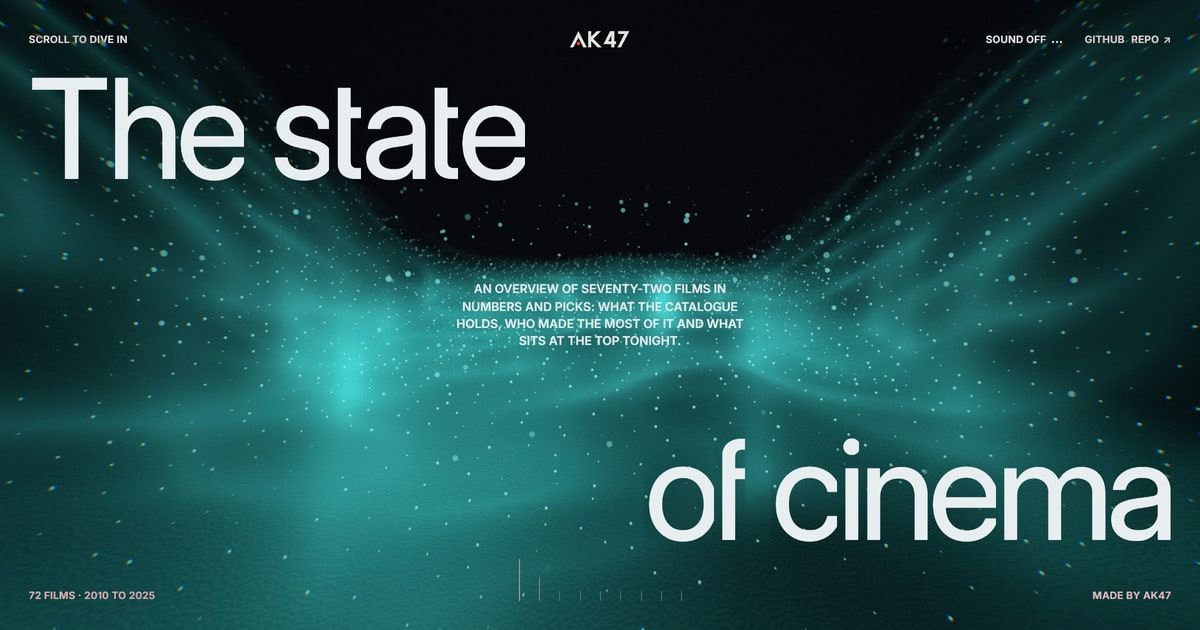
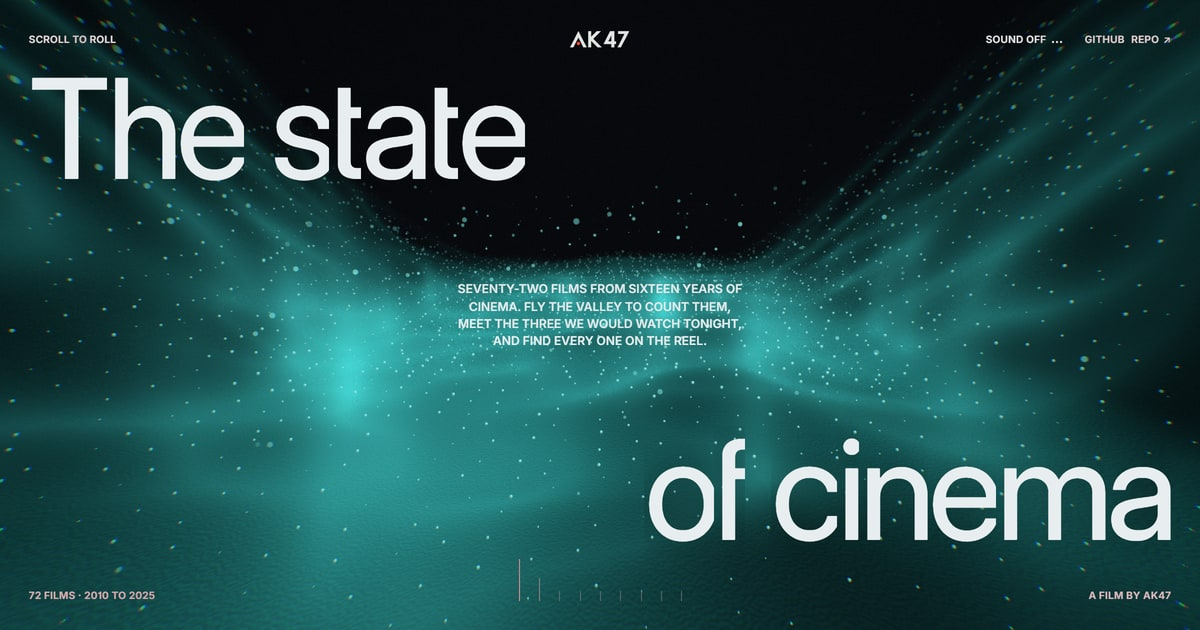
feat(cinema): send rings from pointer taps instead of raw click count
- Replaces click counting with per-tap NDC coordinates so a ring lands where the tap
  occurred, not just wherever the pointer last rested, fixing swipe-vs-tap ambiguity.
- Rewrites HUD copy and reel status line to use film-reel language and adds a reel
  counter in place of the generic progress message.

diff --git a/src/engine/Engine.ts b/src/engine/Engine.ts
@@ -47,8 +47,8 @@ export interface EngineInput {
   readonly pointerX: number;
   readonly pointerY: number;
   readonly pointerActive: boolean;
-  /** Presses since the last frame, each one a ring sent across the dunes. */
-  readonly clicks: number;
+  /** Taps and clicks since the last frame, in normalised device coordinates, each one a ring sent across the dunes. */
+  readonly taps: readonly { readonly x: number; readonly y: number }[];
 }
 
 export interface EngineFrame {
@@ -108,6 +108,7 @@ export class Engine {
   private readonly raycaster = new Raycaster();
   private readonly ground = new Plane(new Vector3(0, 1, 0), 0);
   private readonly hit = new Vector3();
+  private readonly tapHit = new Vector3();
   private readonly look = new Vector3();
   private readonly orbit = new Vector2();
   private readonly tint = new Vector3();
@@ -336,7 +337,7 @@ export class Engine {
     this.camera.updateMatrixWorld();
   }
 
-  /** The pointer raises a soft bump where it rests on the dunes, and a press sends a ring out. */
+  /** The pointer raises a soft bump where it rests on the dunes, and a tap sends a ring out from where it lands. */
   private touchGround(input: EngineInput, time: number, dt: number): void {
     let over = false;
     if (input.pointerActive && !this.reducedMotion) {
@@ -352,8 +353,11 @@ export class Engine {
     else h.z = this.hover;
     this.valley.mark(over && this.lastHit ? [this.lastHit.x, this.lastHit.z, this.hit.x, this.hit.z] : null);
     this.lastHit = over ? (this.lastHit ?? new Vector3()).copy(this.hit) : null;
-    for (let i = 0; i < input.clicks && over; i++) {
-      this.valley.uniforms.uRings.value[this.nextRing]!.set(this.hit.x, this.hit.z, time);
+    if (this.reducedMotion) return;
+    for (const tap of input.taps) {
+      this.raycaster.setFromCamera(new Vector2(tap.x, tap.y), this.camera);
+      if (!this.raycaster.ray.intersectPlane(this.ground, this.tapHit)) continue;
+      this.valley.uniforms.uRings.value[this.nextRing]!.set(this.tapHit.x, this.tapHit.z, time);
       this.nextRing = (this.nextRing + 1) % RING_SLOTS;
     }
   }

diff --git a/src/components/cinema/Hud.tsx b/src/components/cinema/Hud.tsx
@@ -42,8 +42,8 @@ function Copy({ station, topPick, onPlay }: { station: Station; topPick: Film | 
             <Letters text="The state" />
           </h1>
           <p className={styles.strap}>
-            An overview of seventy-two films in numbers and picks: what the catalogue holds, who made the most of it and
-            what sits at the top tonight.
+            Seventy-two films from sixteen years of cinema. Fly the valley to count them, meet the three we would watch
+            tonight, and find every one on the reel.
           </p>
           <p className={`${styles.titleLine} ${styles.titleEnd}`} aria-hidden="true">
             <Letters text="of cinema" delay={160} />
@@ -84,7 +84,7 @@ function Copy({ station, topPick, onPlay }: { station: Station; topPick: Film | 
       return (
         <div className={styles.outro} key="outro">
           <h2 className={styles.outroLine}>
-            <Letters text="Now start watching" />
+            <Letters text="Pick tonight's film" />
           </h2>
           {topPick && (
             <button type="button" className={styles.cta} onClick={() => onPlay(topPick)}>
@@ -98,8 +98,9 @@ function Copy({ station, topPick, onPlay }: { station: Station; topPick: Film | 
   }
 }
 
+/** The status line reads like a projection booth: waiting to roll, rolling, then the last reel. */
 const statusFor = (index: number, count: number): string =>
-  index === 0 ? 'Scroll to dive in' : index >= count - 2 ? 'Almost there' : 'Keep going';
+  index === 0 ? 'Scroll to roll' : index >= count - 2 ? 'Last reel' : `Reel ${index} of ${count - 2}`;
 
 /**
  * The interface over the flight: the station's copy in the centre, and the status, mark,
@@ -163,7 +164,7 @@ export function Hud({ story, index, topPick, soundOn, onToggleSound, onPlay, onJ
             />
           ))}
         </nav>
-        <p className={styles.credit}>Made by AK47</p>
+        <p className={styles.credit}>A film by AK47</p>
       </footer>
     </div>
   );

diff --git a/src/components/cinema/Cinema.tsx b/src/components/cinema/Cinema.tsx
@@ -44,7 +44,9 @@ export function Cinema() {
     const reducedMotion = window.matchMedia('(prefers-reduced-motion: reduce)').matches;
     const lenis = new Lenis({ autoRaf: false, lerp: reducedMotion ? 1 : 0.08, wheelMultiplier: 0.9 });
     lenisRef.current = lenis;
-    const pointer = { x: 0, y: 0, active: false, clicks: 0 };
+    const pointer = { x: 0, y: 0, active: false };
+    /** Taps and clicks since the last frame, in normalised device coordinates. */
+    let taps: { x: number; y: number }[] = [];
     let engine: Engine | null = null;
     let raf = 0;
     let shown = -1;
@@ -73,10 +75,15 @@ export function Cinema() {
       if (e.target !== canvas) return;
       locate(e);
       pointer.active = true;
-      pointer.clicks += 1;
     };
-    const onClick = () => {
-      if (hovered !== null) setPlaying(catalogue.films[hovered] ?? null);
+    // A click fires for a tap but never for a swipe, so only a deliberate press sends a ring.
+    const onClick = (e: MouseEvent) => {
+      if (hovered !== null) {
+        setPlaying(catalogue.films[hovered] ?? null);
+        return;
+      }
+      const box = canvas.getBoundingClientRect();
+      taps.push({ x: ((e.clientX - box.left) / box.width) * 2 - 1, y: 1 - ((e.clientY - box.top) / box.height) * 2 });
     };
     const onPointerUp = (e: PointerEvent) => {
       if (e.pointerType === 'touch') pointer.active = false;
@@ -105,9 +112,9 @@ export function Cinema() {
         pointerX: pointer.x,
         pointerY: pointer.y,
         pointerActive: pointer.active,
-        clicks: pointer.clicks,
+        taps,
       });
-      pointer.clicks = 0;
+      taps = [];
       hovered = frame.hoveredFilm;
       if (!began) {
         if (countRef.current) countRef.current.textContent = String(Math.round(frame.loaded * 100));
